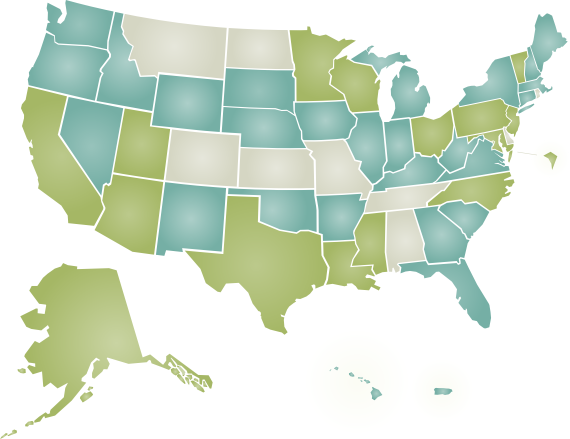
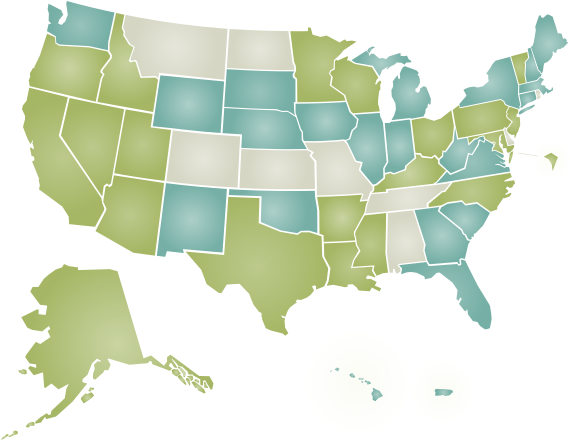
bump OR, ID, KY, AR, and NV to ready

diff --git a/templates/status.html b/templates/status.html
@@ -32,13 +32,15 @@ google group</a>.</p>
 
 <h4> Ready States </h4>
 <p> Ready states (green on the above map) are those that we've identified as having the highest quality
-data.  Currently this includes Alaska, Arizona, California, Louisiana, Maryland, Minnesota, Mississippi,
-New Jersey, North Carolina, Ohio, Pennsylvania, Texas, Utah, Vermont, Washington DC, and Wisconsin.</p>
+data.  Currently this includes Alaska, Arizona, Arkansas, California, Idaho,
+Kentucky, Louisiana, Maryland, Minnesota, Mississippi, Nevada, New Jersey,
+North Carolina, Ohio, Oregon, Pennsylvania, Texas, Utah, Vermont, Washington DC,
+and Wisconsin.</p>
 
 <h4> Experimental States </h4>
 <p> Experimental states (in blue) are those that we support but have not yet promoted to ready
-status.  Arkansas, Connecticut, Florida, Georgia, Hawaii, Idaho, Illinois, Indiana, Iowa, Kentucky, Maine,
-Massachusetts, Michigan, Nevada, New Hampshire, New Mexico, New York, Oklahoma, Oregon, Puerto Rico,
+status.  Connecticut, Florida, Georgia, Hawaii, Illinois, Indiana, Iowa, Maine,
+Massachusetts, Michigan, New Hampshire, New Mexico, New York, Oklahoma, Puerto Rico,
 South Carolina, South Dakota, Virginia, Washington, West Virginia, and Wyoming fall in this category.
 </p>
 
